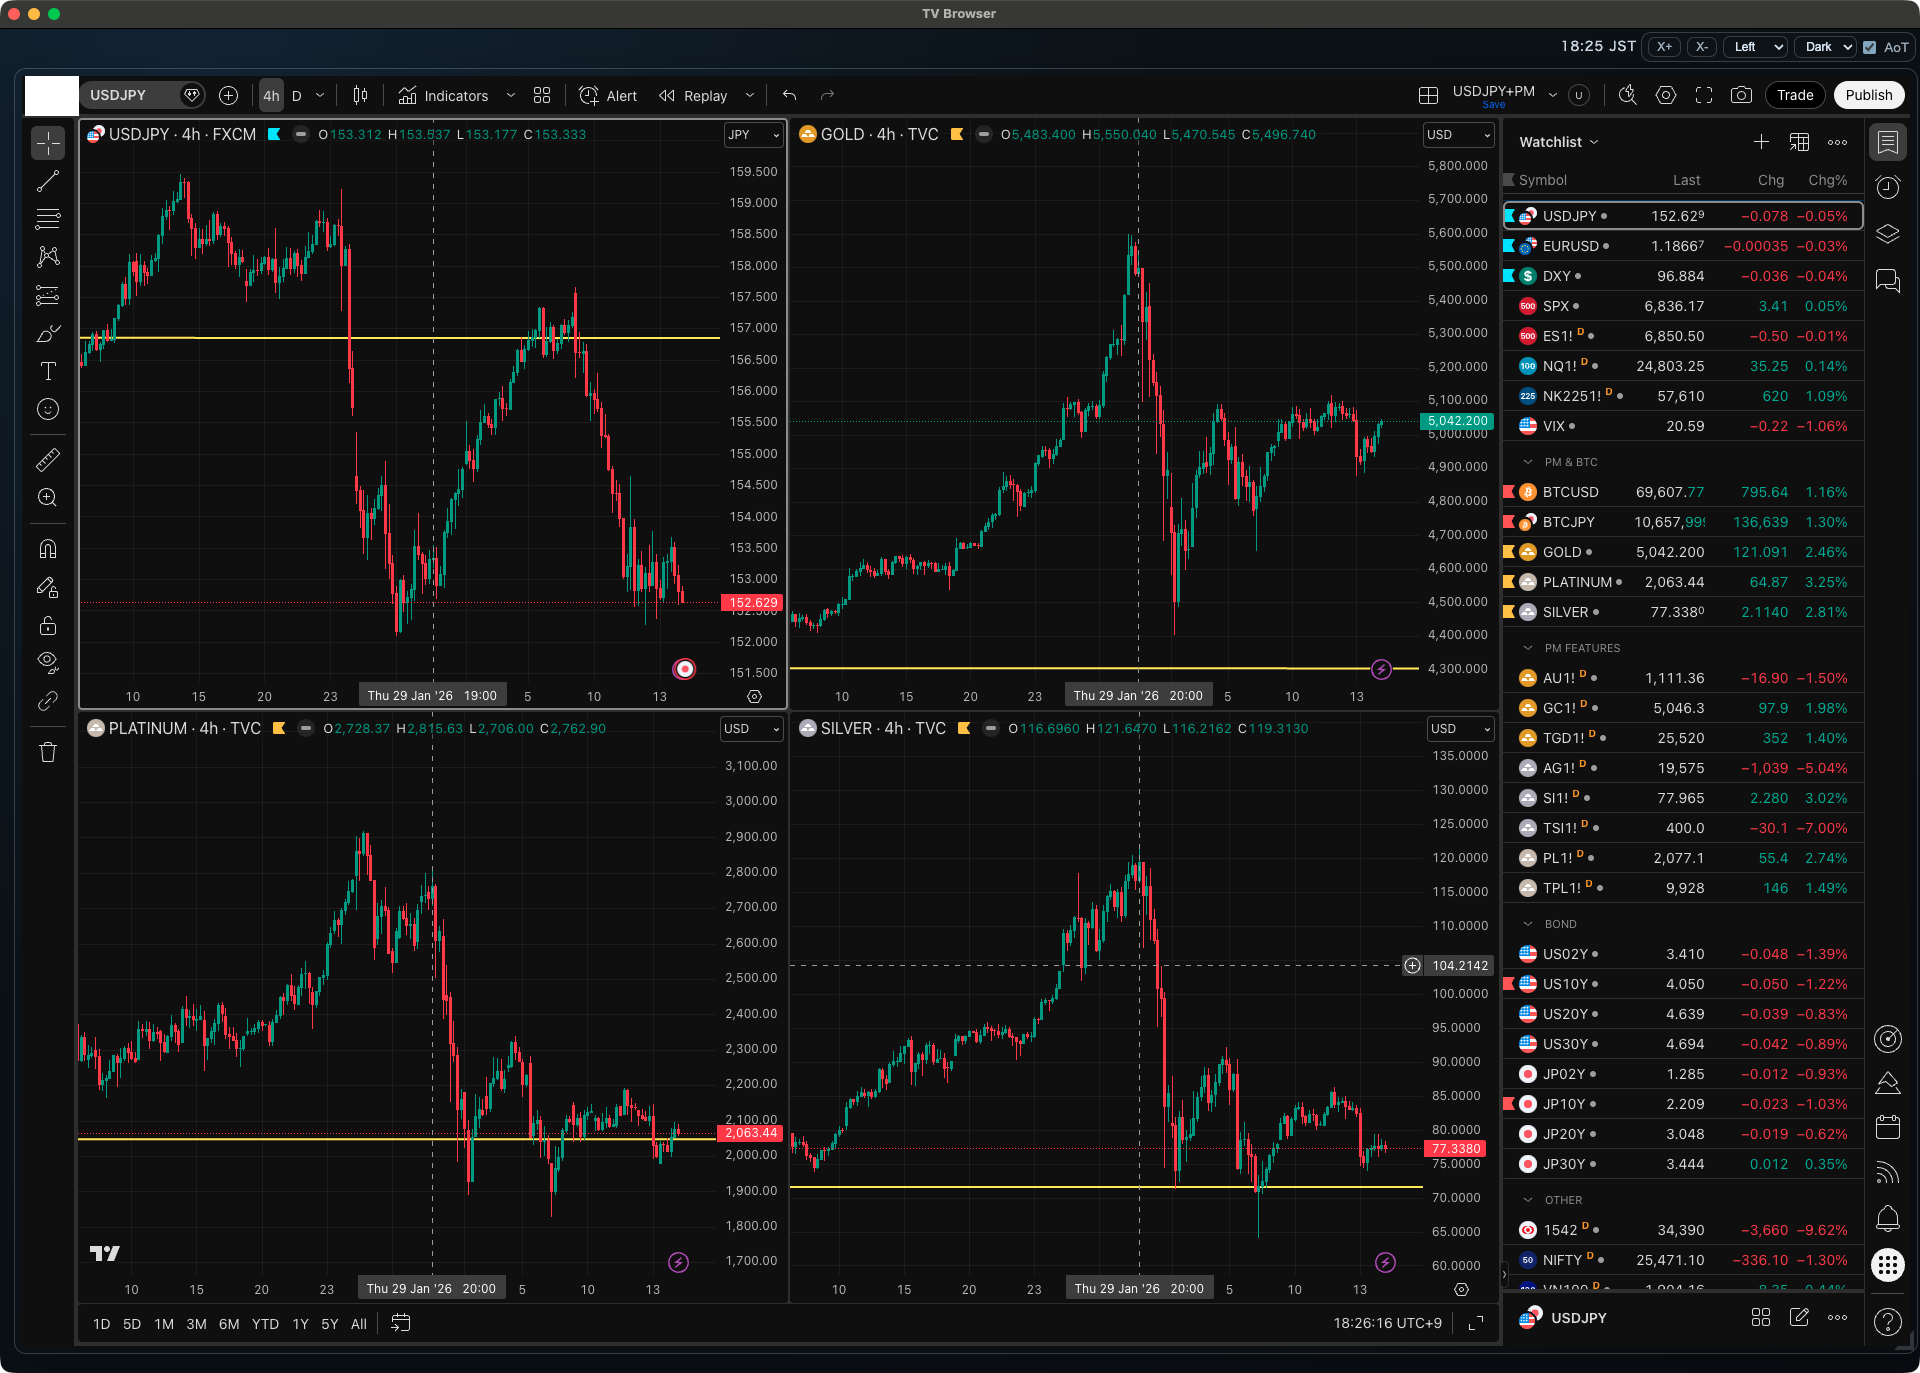
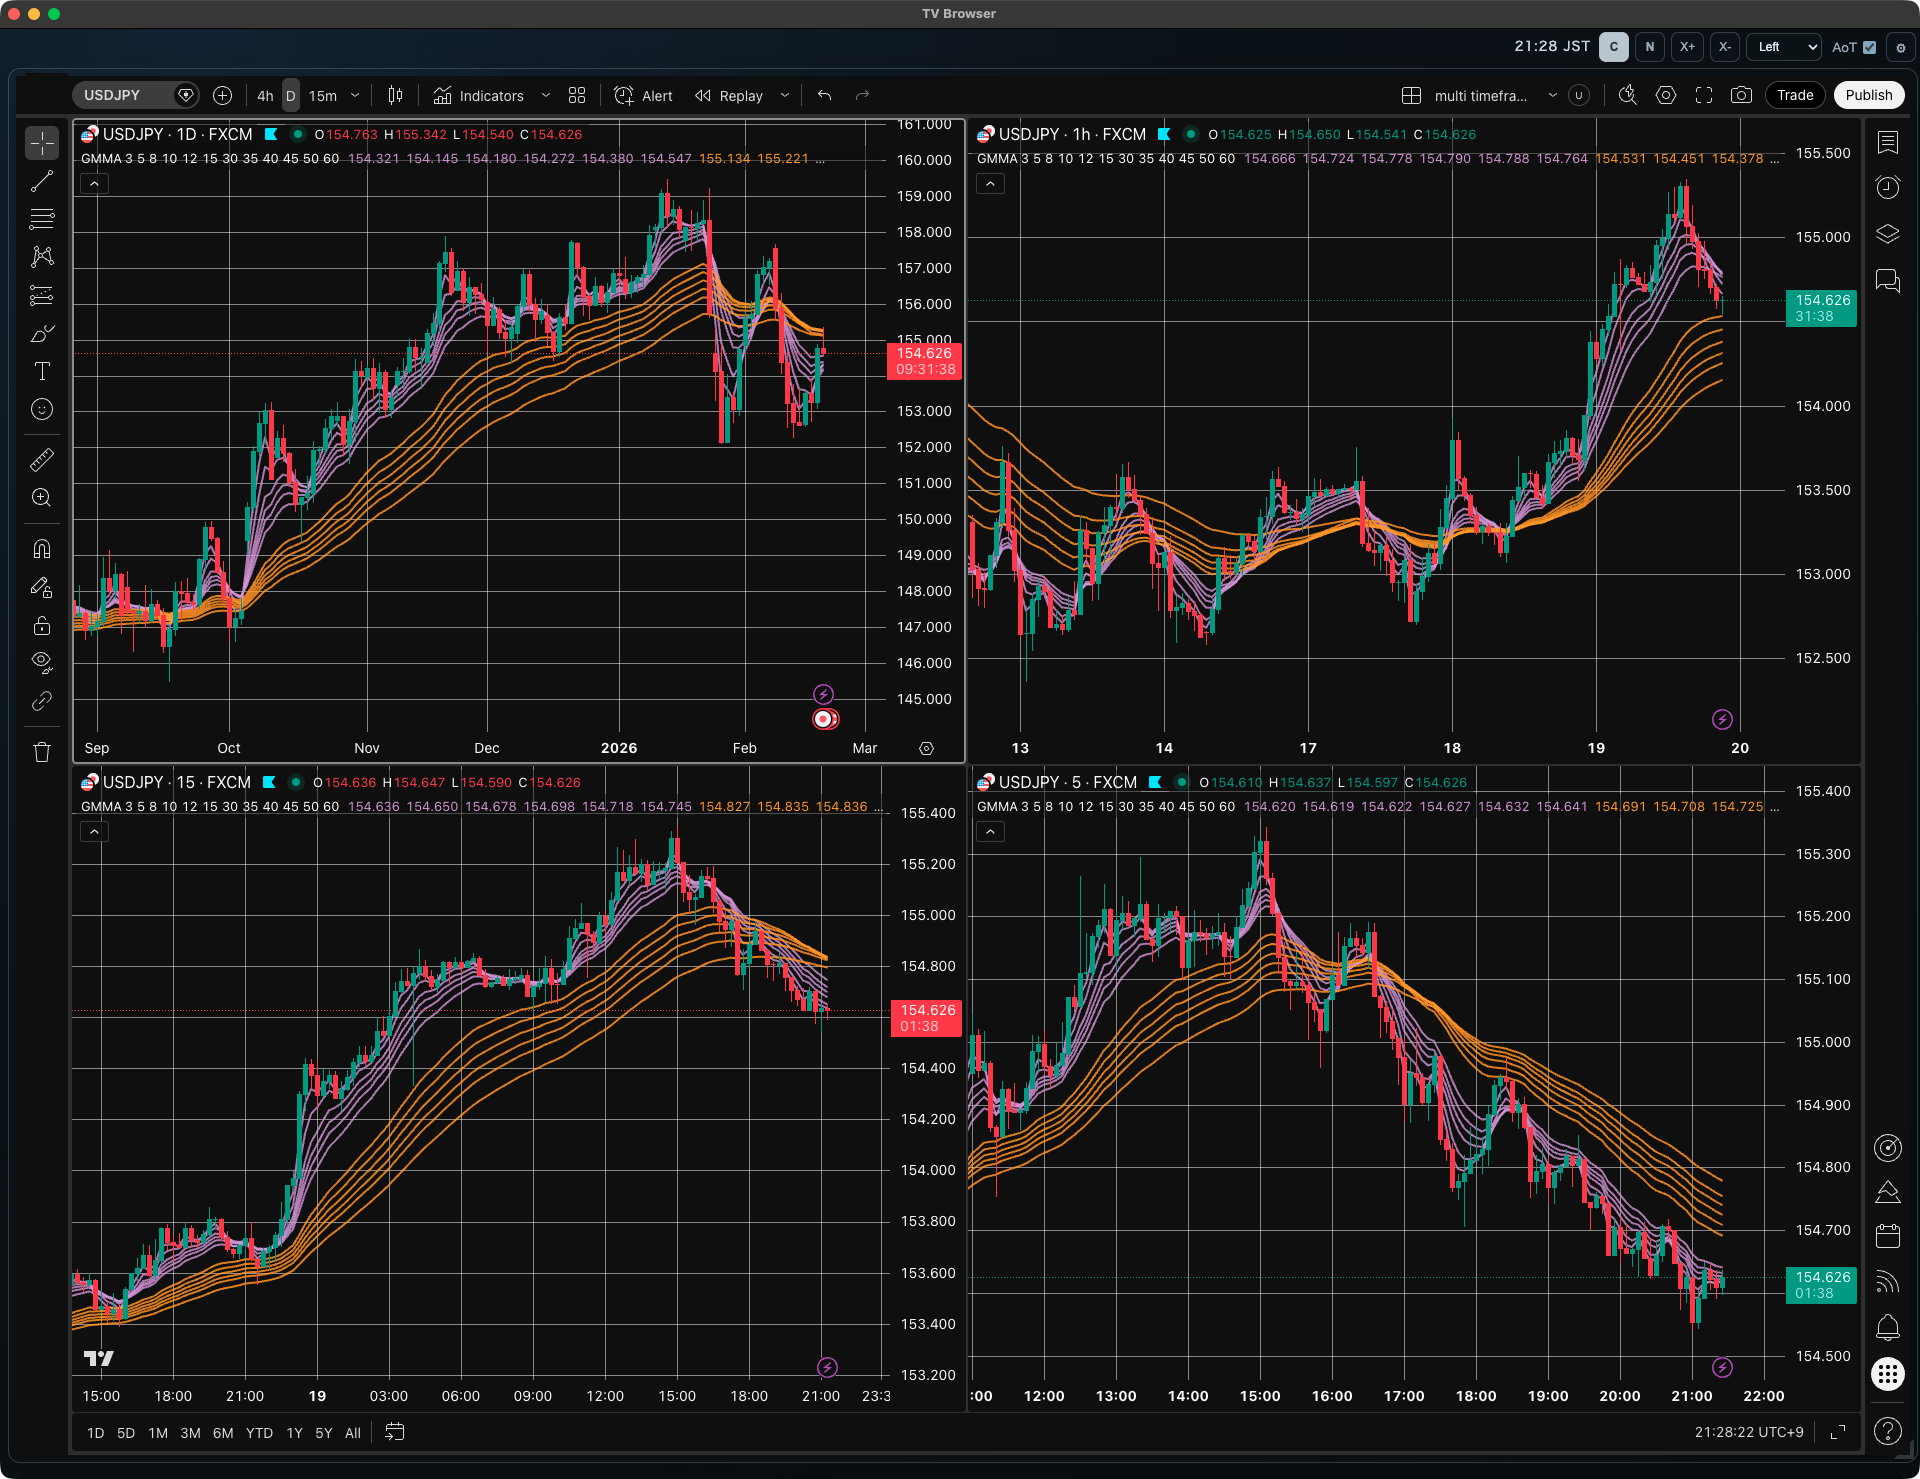
updated README.md

Changed region(s): [[0.0, 0.0, 1.0, 1.0], [0.4688, 0.0, 0.5312, 0.0306], [0.5625, 0.1835, 0.5938, 0.2141]]

diff --git a/README.md b/README.md
@@ -1,20 +1,33 @@
 TradingVewを見るためのブラウザアプリです。
+<br>
+おまけ機能として定期的にチャートのスクリーンショットを(上書き)保存でき、それを画像解析してトレード判断に利用できます。 \
+素人がCodexで作成したものなのでソフトウェアとしての品質は知らん。
 
 * WebContentsViewでカードを作ってTradingViewを表示 (カードはリサイズ可能)
 * **常に前面に表示** に対応 (AoT: Always on Top)
-* **X-** ボタンで Watchlist だけを表示できる程度に横幅を変更
-* **X+** ボタンで全体を表示できる程度に横幅を変更
-* アプリをディスプレイの右端に配置して **X+** ボタンで左にウィンドウを広げたい場合は **Left** モードを選択
-* アプリをディスプレイの左端に配置して **X+** ボタンで右にウィンドウを広げたい場合は **Right** モードを選択
+* `X-` ボタンで Watchlist だけを表示できる程度に横幅を変更
+* `X+` ボタンで全体を表示できる程度に横幅を変更
+* アプリをディスプレイの右端に配置して `X+` ボタンで左にウィンドウを広げたい場合は `Left` モードを選択
+* アプリをディスプレイの左端に配置して `X+` ボタンで右にウィンドウを広げたい場合は `Right` モードを選択
+* `N` (New Window) ポダンで新規ウィンドウを開く
+* `C` (Periodic Screen Capture) ボタンでWebContentsView部分の画像を指定ディレクトリに定期的に保存
+  * 注: WebContentsViewが一部でもディスプレイに表示されていないとElectron(Chromium)がコンテンツ更新を止めてしまうので AoT有効またはWebContentsView部分の一部だけでもディスプレイに表示させ、ウィンドウの最小化または完全オクルージョンは避ける必要があります。
+
+細かな実装は [./doc/implementation.md](./doc/implementation.md) を参照
 
 ---
 
-Watchlistだけを表示した状態 (**X-** ボタン)
+Watchlistだけを表示した状態 (`X-` ボタン)
 
 ![](./doc/watchlist-view.png)
 
 ---
 
-全体をを表示した状態 (**X+** ボタン)
+全体をを表示した状態 (`X+` ボタン) \
+`C` ボタンをクリックし、ボタンが白バックになっている間は指定した分数で定期的にスクリーンショットを上書き保存
 
 ![](./doc/full-view.png)
+
+この画像の場合、日足〜5分足のローソクチャートに GMMA (Guppy Multi Moving Average) を表示しており、短期EMAグループと長期EMAグループの傾きと広がりを評価してトレンド判断する、といったことが考えられます。
+
+![](./doc/gmma.png)
